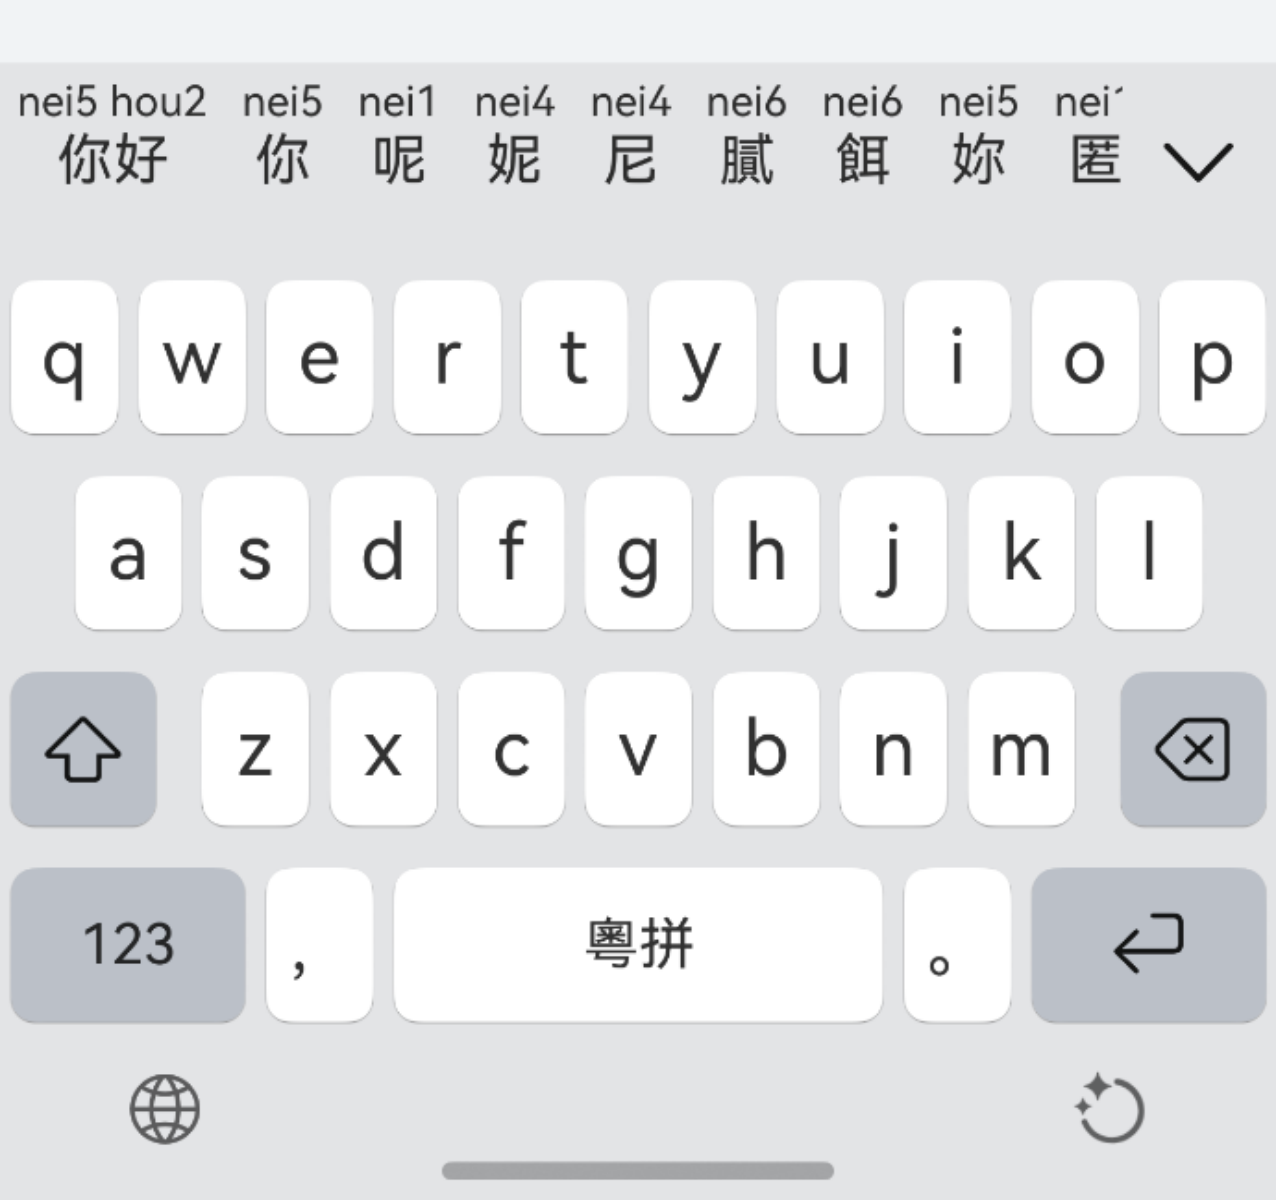
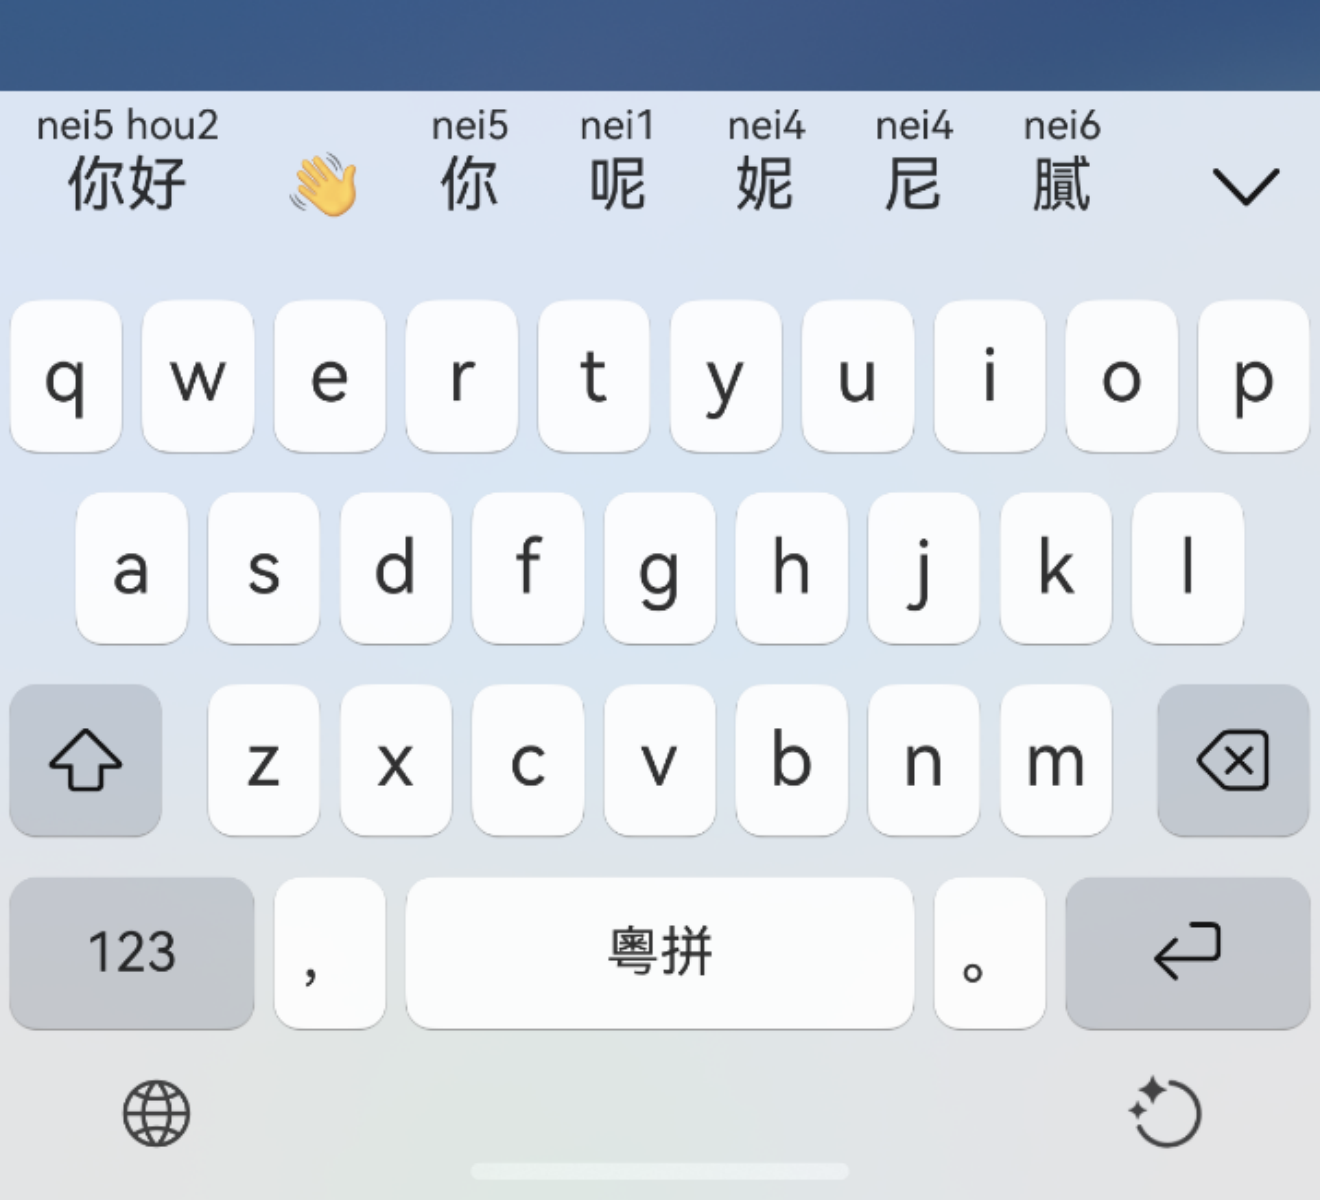
Update contents for Mac IME v0.80.0

diff --git a/cmn-Hans/mac/index.html b/cmn-Hans/mac/index.html
@@ -77,18 +77,18 @@
                                 <h2>下载</h2>
                         </a>
                         <p class="double-line-height">
-                                下载: <a class="download" href="https://dl.jyutping.app/jyutping/0.79.0/Jyutping-v0.79.0-Mac.pkg" download> Jyutping-v0.79.0-Mac.pkg</a>
+                                下载: <a class="download" href="https://dl.jyutping.app/jyutping/0.80.0/Jyutping-v0.80.0-Mac.pkg" download> Jyutping-v0.80.0-Mac.pkg</a>
                                 <br>
                                 兼容: macOS 13 Ventura 或者更高
                                 <br>
                                 兼容: Apple Silicon 以及 Intel x86_64 CPU
                         </p>
                         <div class="shasum-container even-more-line-height">
-                                大小（Size）: <code>28715285</code> 字节(Bytes)
+                                大小（Size）: <code>28417822</code> 字节(Bytes)
                                 <br>
                                 <input type="checkbox" id="shasum-toggle">
                                 <label for="shasum-toggle">散列值(SHA-256)</label>
-                                <pre class="shasum-code-block"><code>f3113552915a0dc03956926dd4f8092bded016a60d82712eeb703c67a1168b31</code></pre>
+                                <pre class="shasum-code-block"><code>df593908acdd075e83a14be1bac3fd6ec6ab2e4f058f7af6e6d245f09a83eac8</code></pre>
                         </div>
                         <br id="install">
                         <a class="bookmark" href="#install">

diff --git a/cmn-Hant/mac/index.html b/cmn-Hant/mac/index.html
@@ -77,18 +77,18 @@
                                 <h2>下載</h2>
                         </a>
                         <p class="double-line-height">
-                                下載: <a class="download" href="https://dl.jyutping.app/jyutping/0.79.0/Jyutping-v0.79.0-Mac.pkg" download> Jyutping-v0.79.0-Mac.pkg</a>
+                                下載: <a class="download" href="https://dl.jyutping.app/jyutping/0.80.0/Jyutping-v0.80.0-Mac.pkg" download> Jyutping-v0.80.0-Mac.pkg</a>
                                 <br>
                                 兼容: macOS 13 Ventura 或者更高
                                 <br>
                                 兼容: Apple Silicon 以及 Intel x86_64 CPU
                         </p>
                         <div class="shasum-container even-more-line-height">
-                                體積(Size): <code>28715285</code> 字節(Bytes)
+                                體積(Size): <code>28417822</code> 字節(Bytes)
                                 <br>
                                 <input type="checkbox" id="shasum-toggle">
                                 <label for="shasum-toggle">散列值(SHA-256)</label>
-                                <pre class="shasum-code-block"><code>f3113552915a0dc03956926dd4f8092bded016a60d82712eeb703c67a1168b31</code></pre>
+                                <pre class="shasum-code-block"><code>df593908acdd075e83a14be1bac3fd6ec6ab2e4f058f7af6e6d245f09a83eac8</code></pre>
                         </div>
                         <br id="install">
                         <a class="bookmark" href="#install">

diff --git a/en/mac/index.html b/en/mac/index.html
@@ -77,18 +77,18 @@
                                 <h2>Download</h2>
                         </a>
                         <p class="double-line-height">
-                                Download: <a class="download" href="https://dl.jyutping.app/jyutping/0.79.0/Jyutping-v0.79.0-Mac.pkg" download> Jyutping-v0.79.0-Mac.pkg</a>
+                                Download: <a class="download" href="https://dl.jyutping.app/jyutping/0.80.0/Jyutping-v0.80.0-Mac.pkg" download> Jyutping-v0.80.0-Mac.pkg</a>
                                 <br>
                                 Compatibility: macOS 13 Ventura or later
                                 <br>
                                 CPU support: Apple Silicon and Intel x86_64
                         </p>
                         <div class="shasum-container even-more-line-height">
-                                Size: <code>28715285</code> bytes
+                                Size: <code>28417822</code> bytes
                                 <br>
                                 <input type="checkbox" id="shasum-toggle">
                                 <label for="shasum-toggle">SHA-256</label>
-                                <pre class="shasum-code-block"><code>f3113552915a0dc03956926dd4f8092bded016a60d82712eeb703c67a1168b31</code></pre>
+                                <pre class="shasum-code-block"><code>df593908acdd075e83a14be1bac3fd6ec6ab2e4f058f7af6e6d245f09a83eac8</code></pre>
                         </div>
                         <br id="install">
                         <a class="bookmark" href="#install">

diff --git a/mac/index.html b/mac/index.html
@@ -77,18 +77,18 @@
                                 <h2>下載</h2>
                         </a>
                         <p class="double-line-height">
-                                下載: <a class="download" href="https://dl.jyutping.app/jyutping/0.79.0/Jyutping-v0.79.0-Mac.pkg" download> Jyutping-v0.79.0-Mac.pkg</a>
+                                下載: <a class="download" href="https://dl.jyutping.app/jyutping/0.80.0/Jyutping-v0.80.0-Mac.pkg" download> Jyutping-v0.80.0-Mac.pkg</a>
                                 <br>
                                 兼容: macOS 13 Ventura 或者更高
                                 <br>
                                 兼容: Apple Silicon 以及 Intel x86_64 CPU
                         </p>
                         <div class="shasum-container even-more-line-height">
-                                體積(Size): <code>28715285</code> 字節(Bytes)
+                                體積(Size): <code>28417822</code> 字節(Bytes)
                                 <br>
                                 <input type="checkbox" id="shasum-toggle">
                                 <label for="shasum-toggle">散列值(SHA-256)</label>
-                                <pre class="shasum-code-block"><code>f3113552915a0dc03956926dd4f8092bded016a60d82712eeb703c67a1168b31</code></pre>
+                                <pre class="shasum-code-block"><code>df593908acdd075e83a14be1bac3fd6ec6ab2e4f058f7af6e6d245f09a83eac8</code></pre>
                         </div>
                         <br id="install">
                         <a class="bookmark" href="#install">